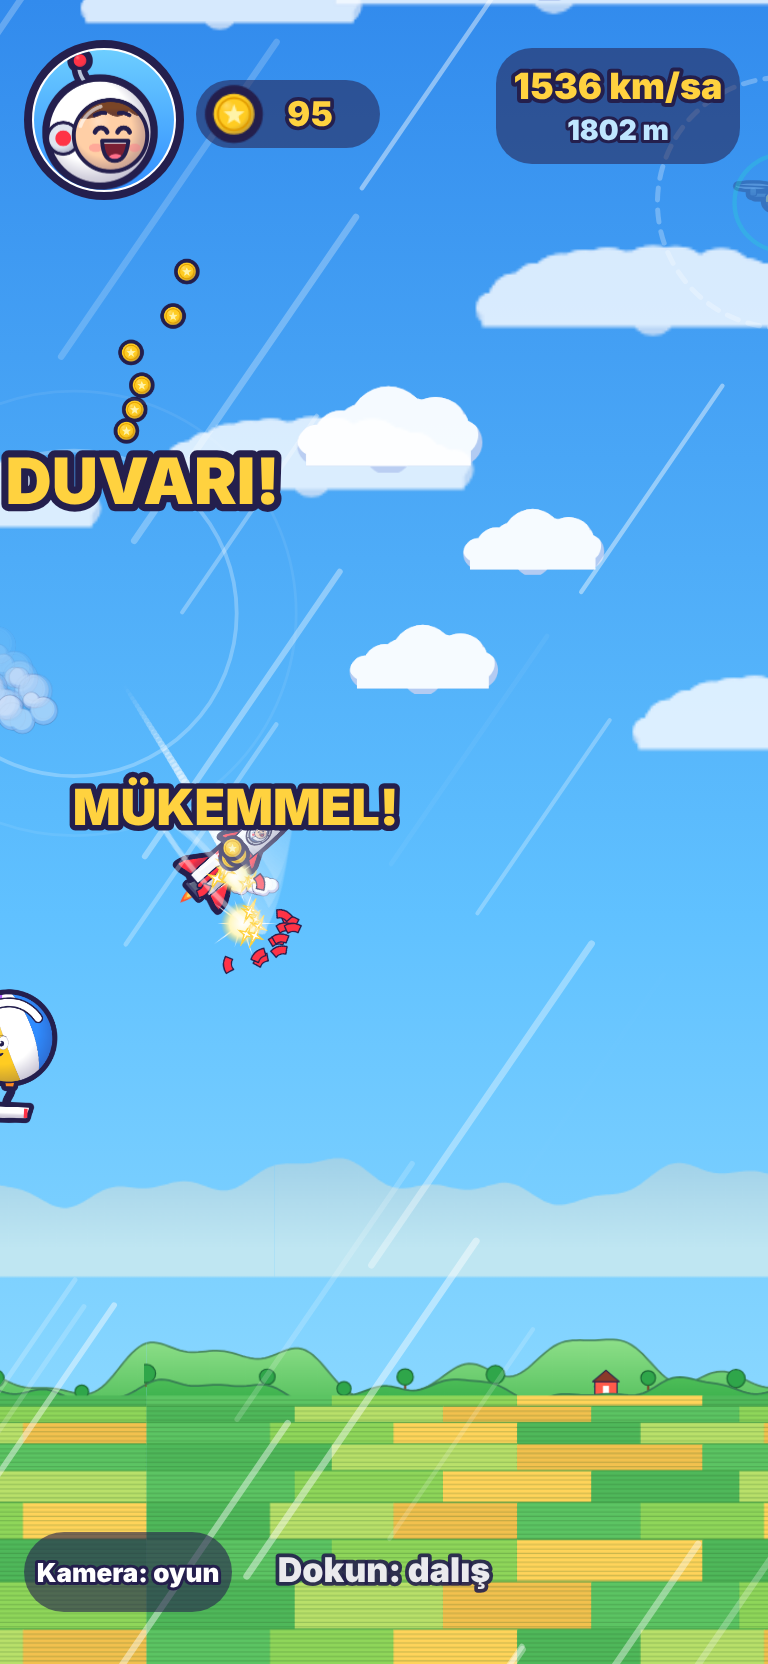
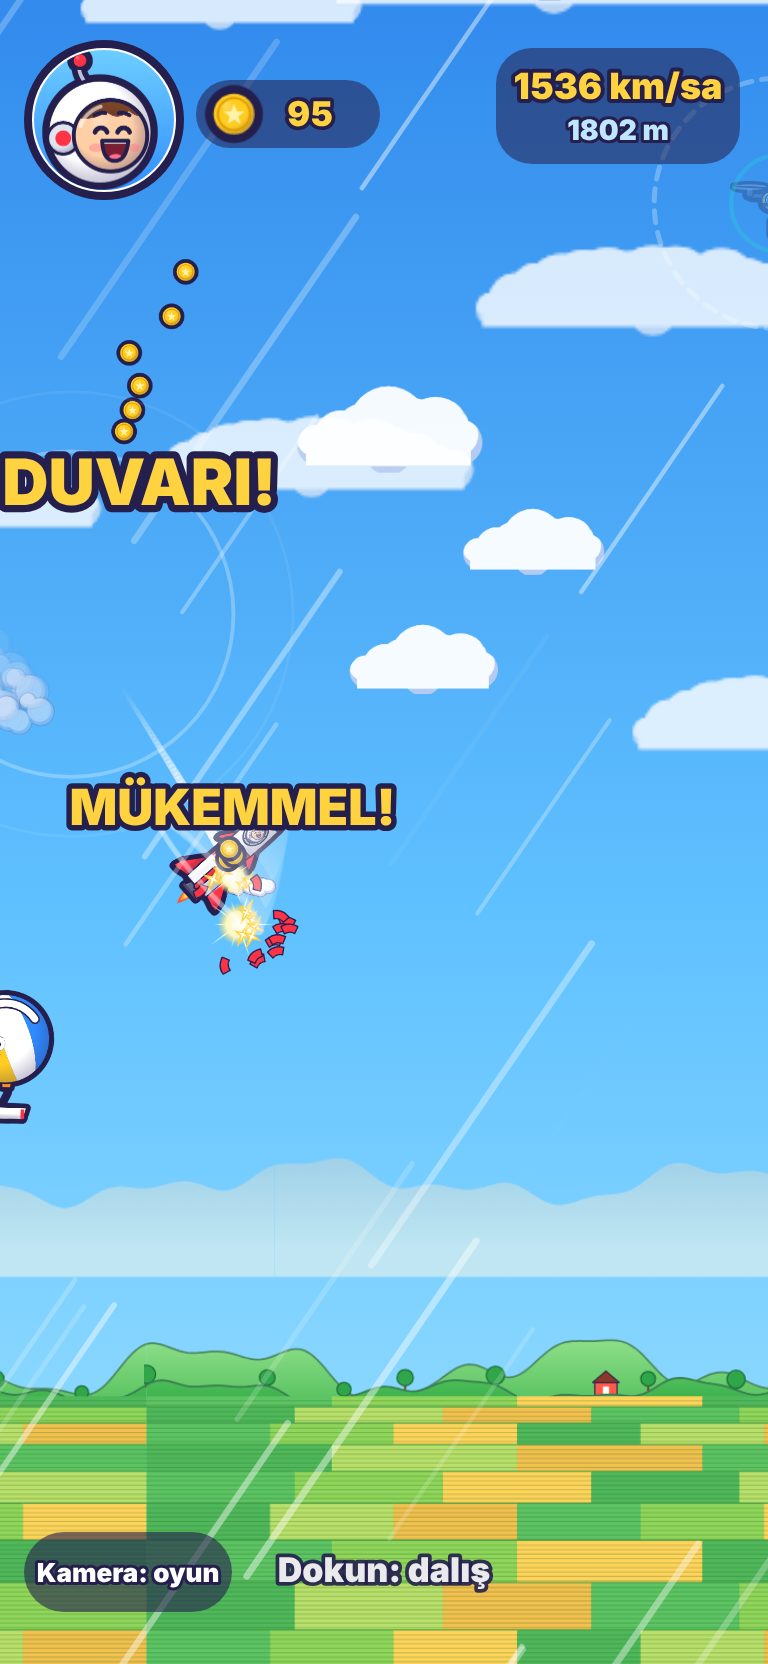
WIP: ara yedek
Claude-Session: https://claude.ai/code/session_01FT8SNz1Hsnax27do6pkEGm

diff --git a/oyun/b1_gorsel/index.html b/oyun/b1_gorsel/index.html
@@ -334,7 +334,7 @@ function bulutKatmani(f, boy, hucreW, hucreH, adlar, alfa, yMin, yMax, olasilik)
     const x = (i + hash(i + 5, j)) * hucreW, ad = adlar[Math.floor(hash(i, j + 7) * adlar.length)];
     const X = CW / 3 + (x - lx) * s, Y = CH / 2 - (y - ly) * s;
     if (X < -300 || X > CW + 300 || Y < -150 || Y > CH + 150) continue;
-    const yukA = kis((1300 - y) / 400, 0, 1);   // çok yüksekte bulut yok
+    const yukA = kis((1300 - y) / 400, 0, 1) * kis((950 - K.y) / 450, 0, 1);   // yükseldikçe bulutlar seyrelir (gece göğünde yok)
     spr(ad, X, Y, 0, s * boy * (0.8 + 0.4 * hash(j, i)), 1, 1, alfa * yukA);
   }
 }
